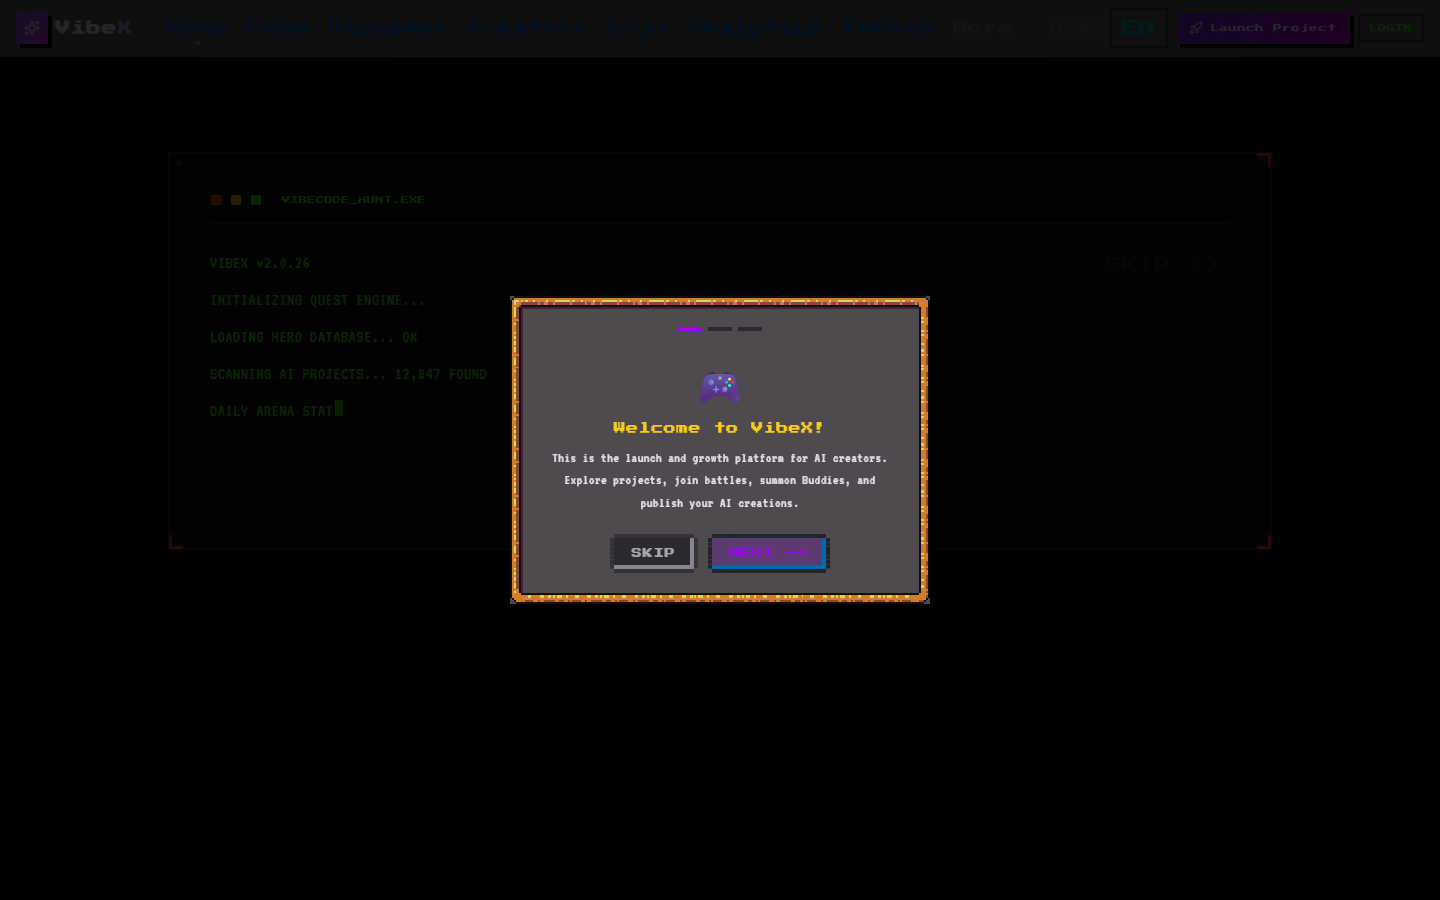
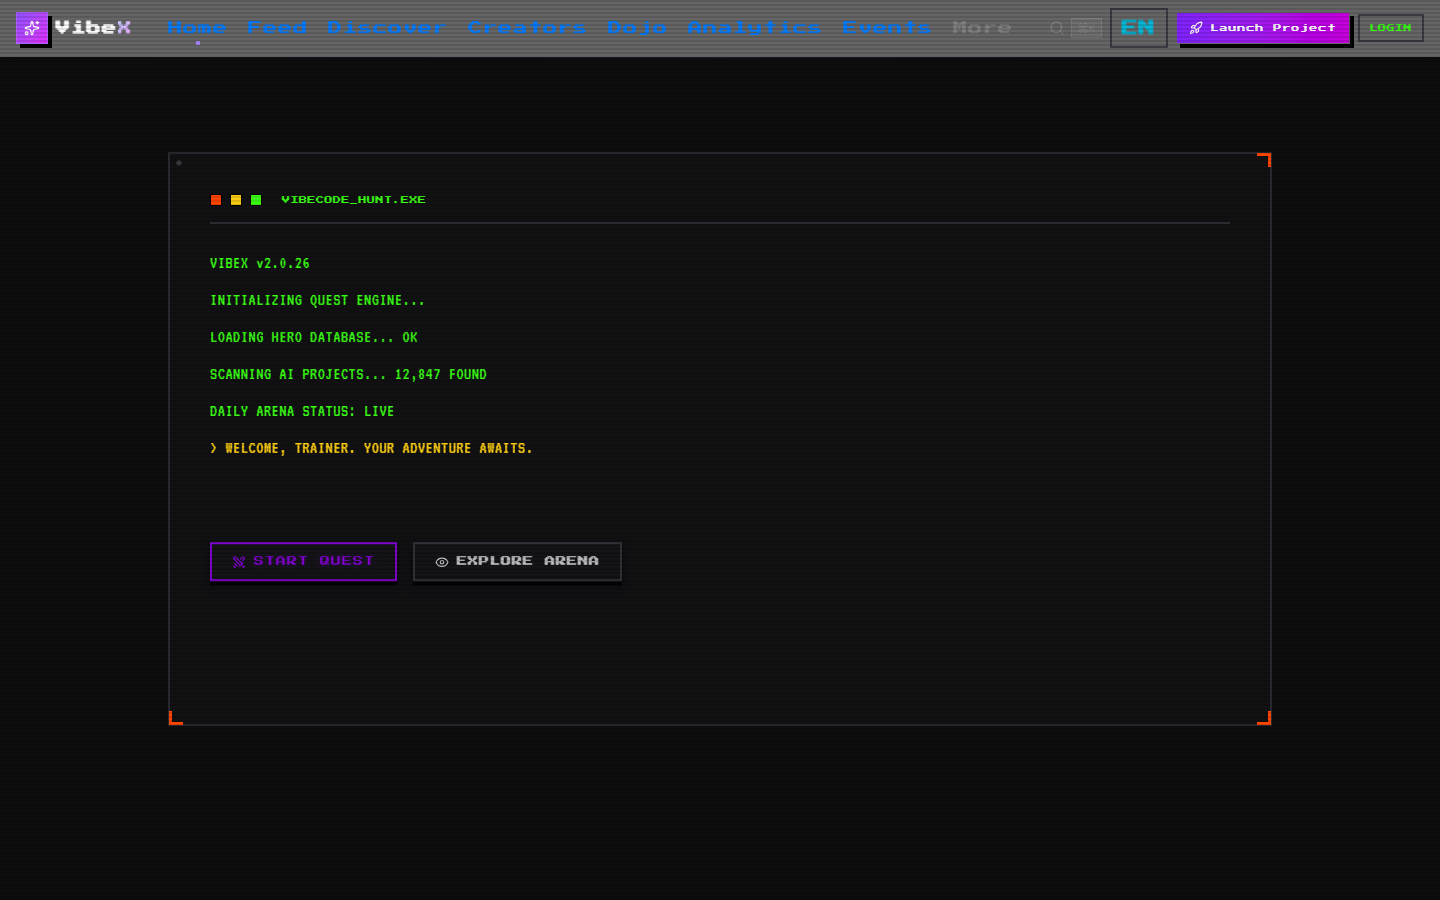
docs: clean screenshots (no overlays), 7-frame GIF, arena + VC shots
- Re-captured all screenshots with localStorage pre-set to dismiss
  tutorial overlay + CSS injection to hide floating widgets
- Added arena and VC dashboard screenshots
- Regenerated demo GIF with 7 frames (0.8 MB)
- Updated README screenshots table: replaced Dojo with Arena + VC

diff --git a/README.md b/README.md
@@ -117,9 +117,9 @@ Investor intelligence: radar charts, talent graph, deal flow table ranked by AI 
 |------|----------|----------------|
 | ![Home](docs/screenshots/01-home.png) | ![Discover](docs/screenshots/03-discover.png) | ![Project](docs/screenshots/04-project.png) |
 
-| Feed | Dojo |
-|------|------|
-| ![Feed](docs/screenshots/05-feed.png) | ![Dojo](docs/screenshots/06-dojo.png) |
+| Feed | Arena | VC Dashboard |
+|------|-------|-------------|
+| ![Feed](docs/screenshots/05-feed.png) | ![Arena](docs/screenshots/07-arena.png) | ![VC](docs/screenshots/08-vc.png) |
 
 ---
 
